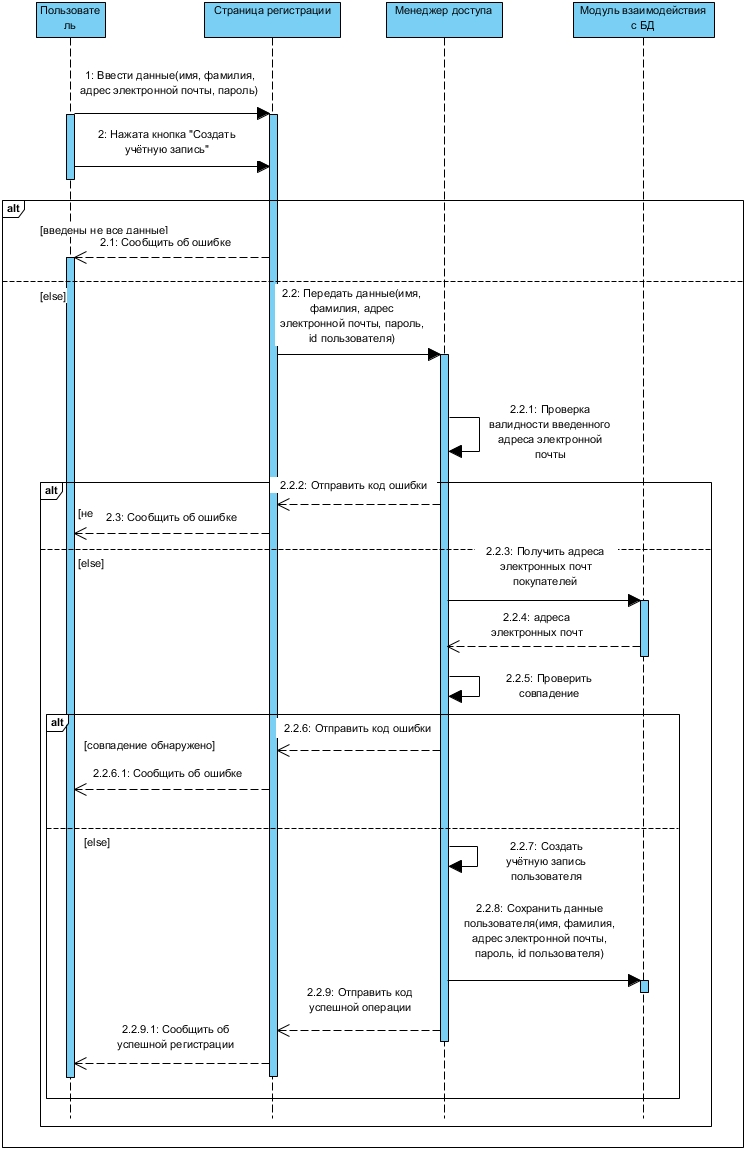
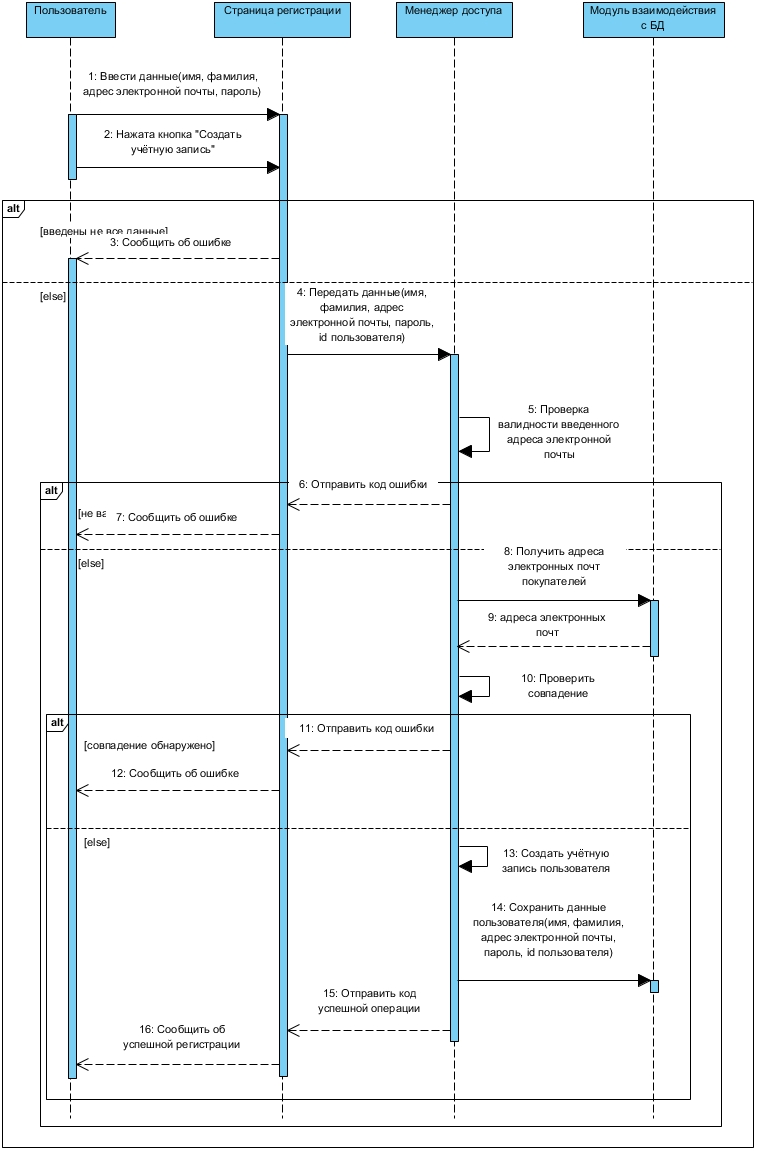
Исправлены названия вариантов использования. Изменена нумерация в диаграммах последовательностей на одноуровневую.

diff --git a/Documents/UML Diagrams.md b/Documents/UML Diagrams.md
@@ -4,24 +4,24 @@
 1. [Диаграмма вариантов использования](#use_case_diagram)  
    1.1 [Актёры](#actors)  
    1.2 [Варианты использования](#use_cases)  
-   1.2.1 [Регистрация](#registration)  
-   1.2.2 [Сброс пароля](#reset_password)  
-   1.2.3 [Вход в учётную запись](#sign_in)  
-   1.2.4 [Поиск билетов](#search_tickets)  
-   1.2.5 [Редактирование личных данных](#edit_user_data)  
-   1.2.6 [Просмотр приобретенных билетов](#view_purchased_tickets)  
-   1.2.7 [Выход из учётной записи](#sign_out)  
-   1.2.8 [Покупка билетов](#buy_tickets)  
+   1.2.1 [Зарегистрировать](#registration)  
+   1.2.2 [Сбросить пароль](#reset_password)  
+   1.2.3 [Войти в учётную запись](#sign_in)  
+   1.2.4 [Найти билеты](#search_tickets)  
+   1.2.5 [Редактировать личные данные](#edit_user_data)  
+   1.2.6 [Просмотреть приобретенные билеты](#view_purchased_tickets)  
+   1.2.7 [Выйти из учётной записи](#sign_out)  
+   1.2.8 [Купить билеты](#buy_tickets)  
 2. [Диаграммы активностей](#activities_diagrams)  
-   2.1 [Регистрация](#registration_activity)  
-   2.2 [Вход в учётную запись](#sign_in_activity)  
-   2.3 [Поиск билетов](#search_tickets_activity)  
-   2.4 [Покупка билетов](#buy_tickets_activity)  
+   2.1 [Зарегистрировать](#registration_activity)  
+   2.2 [Войти в учётную запись](#sign_in_activity)  
+   2.3 [Найти билеты](#search_tickets_activity)  
+   2.4 [Купить билеты](#buy_tickets_activity)  
 3. [Диаграммы последовательностей](#sequence_diagrams)  
-   3.1 [Регистрация](#registration_sequence)  
-   3.2 [Вход в учётную запись](#sign_in_sequence)  
-   3.3 [Поиск билетов](#search_tickets_sequence)  
-   3.4 [Покупка билетов](#buy_tickets_sequence)  
+   3.1 [Зарегистрировать](#registration_sequence)  
+   3.2 [Войти в учётную запись](#sign_in_sequence)  
+   3.3 [Найти билеты](#search_tickets_sequence)  
+   3.4 [Купить билеты](#buy_tickets_sequence)  
 
 <a name="use_case_diagram"/>
 
@@ -42,8 +42,8 @@
 
 <a name ="registration"/>
 
-### 1.2.1 Регистрация
-**Описание.** Вариант использования "Регистрация" позволяет посетителю создать свою учётную запись на сайте.  
+### 1.2.1 Зарегистрировать
+**Описание.** Вариант использования "Зарегистрировать" позволяет посетителю создать свою учётную запись на сайте.  
 **Основной поток.**
 1. Пользователь нажимает на кнопку "Зарегистрироваться" на главной странице сайта в верхнем правом углу.
 2. На сайте отображается окно регистрации, в котором запрашивается ввод имени, фамилии, адреса электронной почты и пароля.
@@ -62,8 +62,8 @@
 
 <a name ="reset_password"/>
 
-### 1.2.2 Сброс пароля
-**Описание.** Вариант использования "Сброс пароля" позволяет посетителю изменить свой пароль от учётной записи.  
+### 1.2.2 Сбросить пароль
+**Описание.** Вариант использования "Сбросить пароль" позволяет посетителю изменить свой пароль от учётной записи.  
 **Основной поток.**
 1. Пользователь нажимает на кнопку "Войти" на главной странице веб-сайта в верхнем правом углу.
 2. Веб-сайт отображает окно "Войти", в котором имеется кнопка "Я забыл свой пароль".
@@ -85,8 +85,8 @@
 
 <a name ="sign_in"/>
 
-### 1.2.3 Вход в учётную запись
-**Описание.** Вариант использования "Вход в учётную запись" позволяет посетителю войти в учётную запись.  
+### 1.2.3 Войти в учётную запись
+**Описание.** Вариант использования "Войти в учётную запись" позволяет посетителю войти в учётную запись.  
 **Основной поток.**
 1. Пользователь нажимает на кнопку "Войти" на главной странице веб-сайта.
 2. Веб-сайт отображает окно "Войти", в котором запрашивается ввод адреса электронной почты и пароля.
@@ -104,8 +104,8 @@
 
 <a name ="search_tickets"/>
 
-### 1.2.4 Поиск билетов
-**Описание.** Вариант использования "Поиск билетов" позволяет любому пользователю искать билеты на автобусы и отображать информацию о найденных маршрутах.  
+### 1.2.4 Найти билеты
+**Описание.** Вариант использования "Найти билеты" позволяет любому пользователю искать билеты на автобусы и отображать информацию о найденных маршрутах.  
 **Основной поток.**
 1. На главной странице веб-сайта пользователь вводит пункт отправления в поле "Откуда", пункт назначения в поле "Куда", указывает дату в соответствующем поле и выбирает тип билета с помощью выпадающего списка.
 2. Пользователь нажимает кнопку "Поиск".
@@ -116,8 +116,8 @@
 
 <a name ="edit_user_data"/>
 
-### 1.2.5 Редактирование личных данных
-**Описание.** Вариант использования "Редактирование личных данных" позволяет покупателю просматривать и изменять данные своей учётной записи.  
+### 1.2.5 Редактировать личные данные
+**Описание.** Вариант использования "Редактировать личные данные" позволяет покупателю просматривать и изменять данные своей учётной записи.  
 **Основной поток.**
 1. Пользователь нажимает на область со значком пользователя и с его именем.
 2. Веб-приложение отображает список действий, в котором имеется кнопка "Данные пассажира".
@@ -133,8 +133,8 @@
 
 <a name ="view_purchased_tickets"/>
 
-### 1.2.6 Просмотр приобретенных билетов
-**Описание.** Вариант использования "Просмотр приобретенных билетов" позволяет покупателю просмотреть список приобретенных билетов.  
+### 1.2.6 Просмотреть приобретенные билеты
+**Описание.** Вариант использования "Просмотреть приобретенные билеты" позволяет покупателю просмотреть список приобретенных билетов.  
 **Основной поток.**
 1. Пользователь нажимает на кнопку "Ваши билеты" на главной странице веб-сайта возле имени пользователя и выполнение основного потока переходит к пункту 4 либо пользователь нажимает на область со значком пользователя и с его именем.
 2. Веб-приложение отображает список действий, в котором имеется кнопка "Ваши билеты".
@@ -144,8 +144,8 @@
 
 <a name ="sign_out"/>
 
-### 1.2.7 Выход из учётной записи
-**Описание.** Вариант использования "Выход из учётной записи" позволяет покупателю выйти из своей учётной записи.  
+### 1.2.7 Выйти из учётной записи
+**Описание.** Вариант использования "Выйти из учётной записи" позволяет покупателю выйти из своей учётной записи.  
 **Основной поток.**
 1. Пользователь нажимает на область со значком пользователя и с его именем.
 2. Веб-приложение отображает список действий, в котором имеется кнопка "Выход".
@@ -155,9 +155,9 @@
 
 <a name ="buy_tickets"/>
 
-### 1.2.8 Покупка билетов
-**Описание.** Вариант использования "Покупка билетов" позволяет покупателю приобрести билет для поездки на автобусе.  
-**Предусловия.** Был инициирован вариант использования "Поиск билетов".  
+### 1.2.8 Купить билеты
+**Описание.** Вариант использования "Купить билеты" позволяет покупателю приобрести билет для поездки на автобусе.  
+**Предусловия.** Был инициирован вариант использования "Найти билеты".  
 **Основной поток.**
 1. Пользователь нажимает на область с найденным билетом на автобус.
 2. Веб-приложение отображает страницу с покупкой билета, в которой имеются поля для ввода данных покупки и таблица для выбора места в автобусе.
@@ -174,27 +174,27 @@
 
 <a name = "registration_activity"/>
 
-### 2.1 Регистрация
+### 2.1 Зарегистрировать
 
-![Диаграмма активности (регистрация)](../Images/Diagrams/RegistrationDiagram.jpg)  
+![Диаграмма активности (зарегистрировать)](../Images/Diagrams/RegistrationDiagram.jpg)  
 
 <a name = "sign_in_activity"/>
 
-### 2.2 Вход в учётную запись
+### 2.2 Войти в учётную запись
 
-![Диаграмма активности (вход в учётную запись)](../Images/Diagrams/SignInDiagram.jpg)  
+![Диаграмма активности (войти в учётную запись)](../Images/Diagrams/SignInDiagram.jpg)  
 
 <a name = "search_tickets_activity"/>
 
-### 2.3 Поиск билетов
+### 2.3 Найти билеты
 
-![Диаграмма активности (поиск билетов)](../Images/Diagrams/SearchTicketsDiagram.jpg)
+![Диаграмма активности (найти билеты)](../Images/Diagrams/SearchTicketsDiagram.jpg)
 
 <a name = "buy_tickets_activity"/>
 
-### 2.4 Покупка билетов
+### 2.4 Купить билеты
 
-![Диаграмма активности (покупка билетов)](../Images/Diagrams/BuyTicketsDiagram.jpg)
+![Диаграмма активности (купить билеты)](../Images/Diagrams/BuyTicketsDiagram.jpg)
 
 <a name = "sequence_diagrams"/>
 
@@ -202,27 +202,27 @@
 
 <a name = "registration_sequence"/>
 
-### 2.1 Регистрация
+### 2.1 Зарегистрировать
 
-![Диаграмма последовательности (регистрация)](../Images/Diagrams/RegistrationSeqDiagram.jpg)  
+![Диаграмма последовательности (зарегистрировать)](../Images/Diagrams/RegistrationSeqDiagram.jpg)  
 
 <a name = "sign_in_sequence"/>
 
-### 2.2 Вход в учётную запись
+### 2.2 Войти в учётную запись
 
-![Диаграмма последовательности (вход в учётную запись)](../Images/Diagrams/SignInSeqDiagram.jpg)  
+![Диаграмма последовательности (войти в учётную запись)](../Images/Diagrams/SignInSeqDiagram.jpg)  
 
 <a name = "search_tickets_sequence"/>
 
-### 2.3 Поиск билетов
+### 2.3 Найти билеты
 
-![Диаграмма последовательности (поиск билетов)](../Images/Diagrams/SearchTicketsSeqDiagram.jpg)
+![Диаграмма последовательности (найти билеты)](../Images/Diagrams/SearchTicketsSeqDiagram.jpg)
 
 <a name = "buy_tickets_sequence"/>
 
-### 2.4 Покупка билетов
+### 2.4 Купить билеты
 
-![Диаграмма последовательности (покупка билетов)](../Images/Diagrams/BuyTicketsSeqDiagram.jpg)
+![Диаграмма последовательности (купить билеты)](../Images/Diagrams/BuyTicketsSeqDiagram.jpg)
 
 
 
